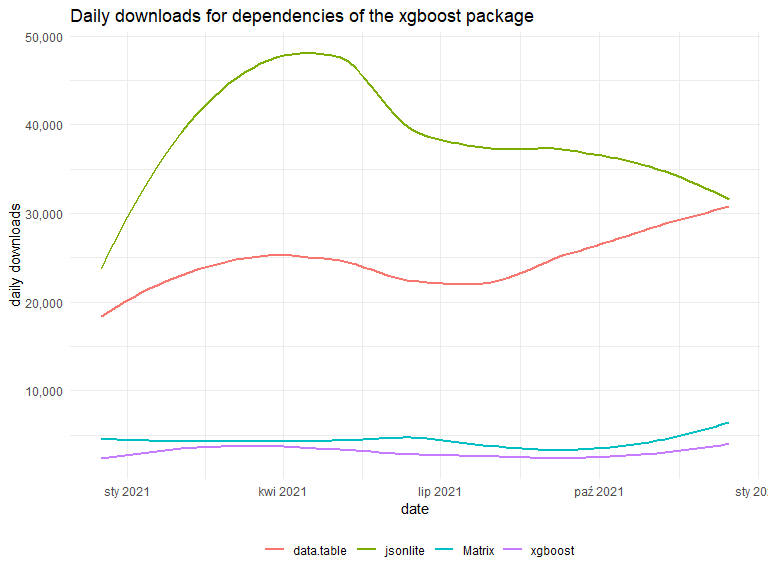
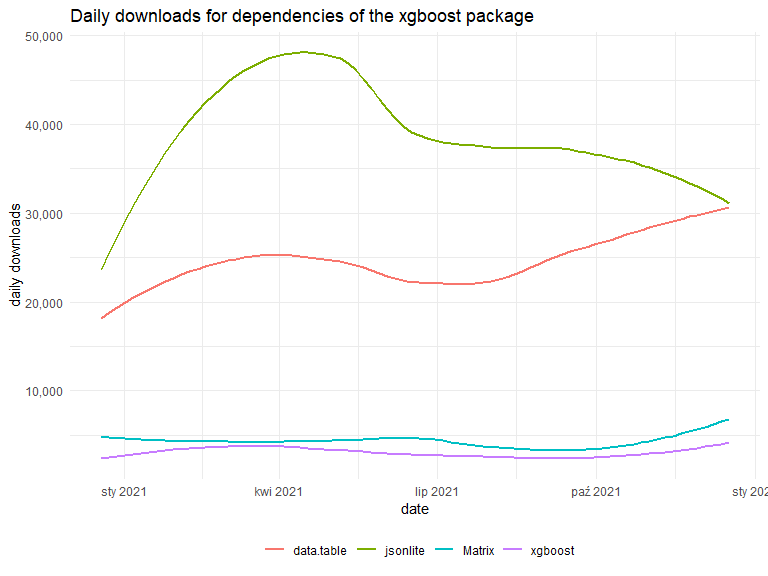
recompile README

diff --git a/README.md b/README.md
@@ -88,9 +88,9 @@ head(dd_xgboost)
 ```
 
     ##    origin       name  version    type last_day last_week last_month last_quarter last_half grand_total origin_level dest_level
-    ## 1 xgboost     Matrix >= 1.1-0 Imports     7875     77155     172054       394042    719250     6902358            0          1
-    ## 2 xgboost data.table >= 1.9.6 Imports    31289    200434     841803      2683036   4689175    31603287            0          1
-    ## 3 xgboost   jsonlite   >= 1.0 Imports    33438    213670     982312      3192777   6632527    51889272            0          1
+    ## 1 xgboost     Matrix >= 1.1-0 Imports    10823     53203     181582       405632    727125     6920925            0          1
+    ## 2 xgboost data.table >= 1.9.6 Imports    27530    192739     830277      2680986   4693176    31662141            0          1
+    ## 3 xgboost   jsonlite   >= 1.0 Imports    29113    198194     962410      3141085   6611507    51949816            0          1
 
 ``` r
 plot_downloads(dd_xgboost)
